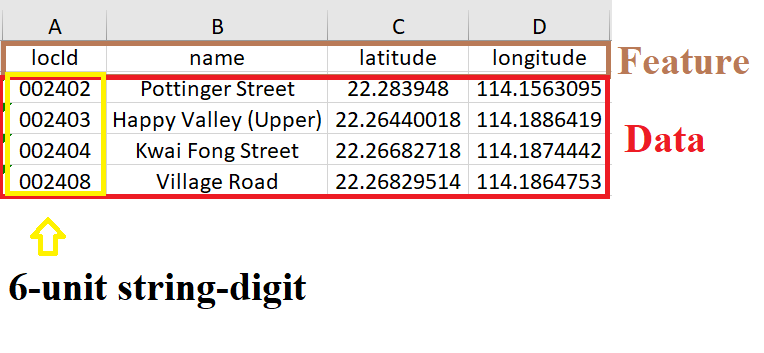
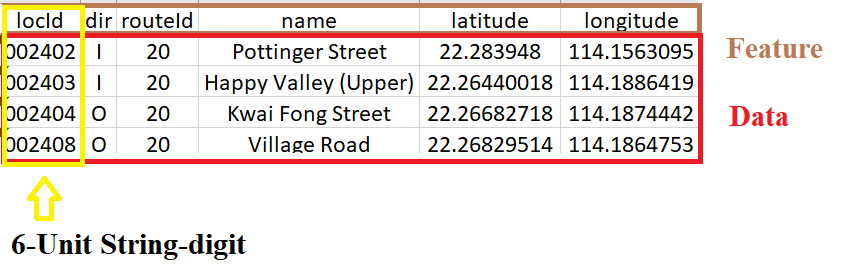
Update for CSV Create

diff --git a/admin.js b/admin.js
@@ -664,9 +664,11 @@ $(document).ready(function() {
         var locDataForm = '<div class="container" >'+
            '<h1>Create the Location Data</h1>' +
             '<h4>Please follow the structure below:</h4>'+
-            '<h4>DateFeature: |Location ID | Location Name | Location Latitude | Location Longitude | </h4>'+
+            '<h5>DateFeature: | Location ID | Route Direction | Route ID | Location Name | Location Latitude | Location Longitude | </h5>'+
             '<img src="CSV_format.PNG" alt="Format of CSV file" width="50%" height ="50%" >'+
-            '<h6>Reminder:<br><i>1. The Location name should  <strong>not</strong> include any "," <br>2. Location ID should be a 6-unit string of value.</i></h6>'+
+            '<h6>Reminder:<br><i>1. The Location name should  <strong>NOT</strong> include any "," <br>' +
+            '2. Location ID should be a 6-unit string of value.<br>' +
+            '3. Direction should be "I" for Inbound or "O" for Outbound</i></h6>' +
             '<form class="form-inline">' +
                 '<div class="form-group">' +
                     '<label for="files">Please Upload a CSV file here: <br></label>' +
